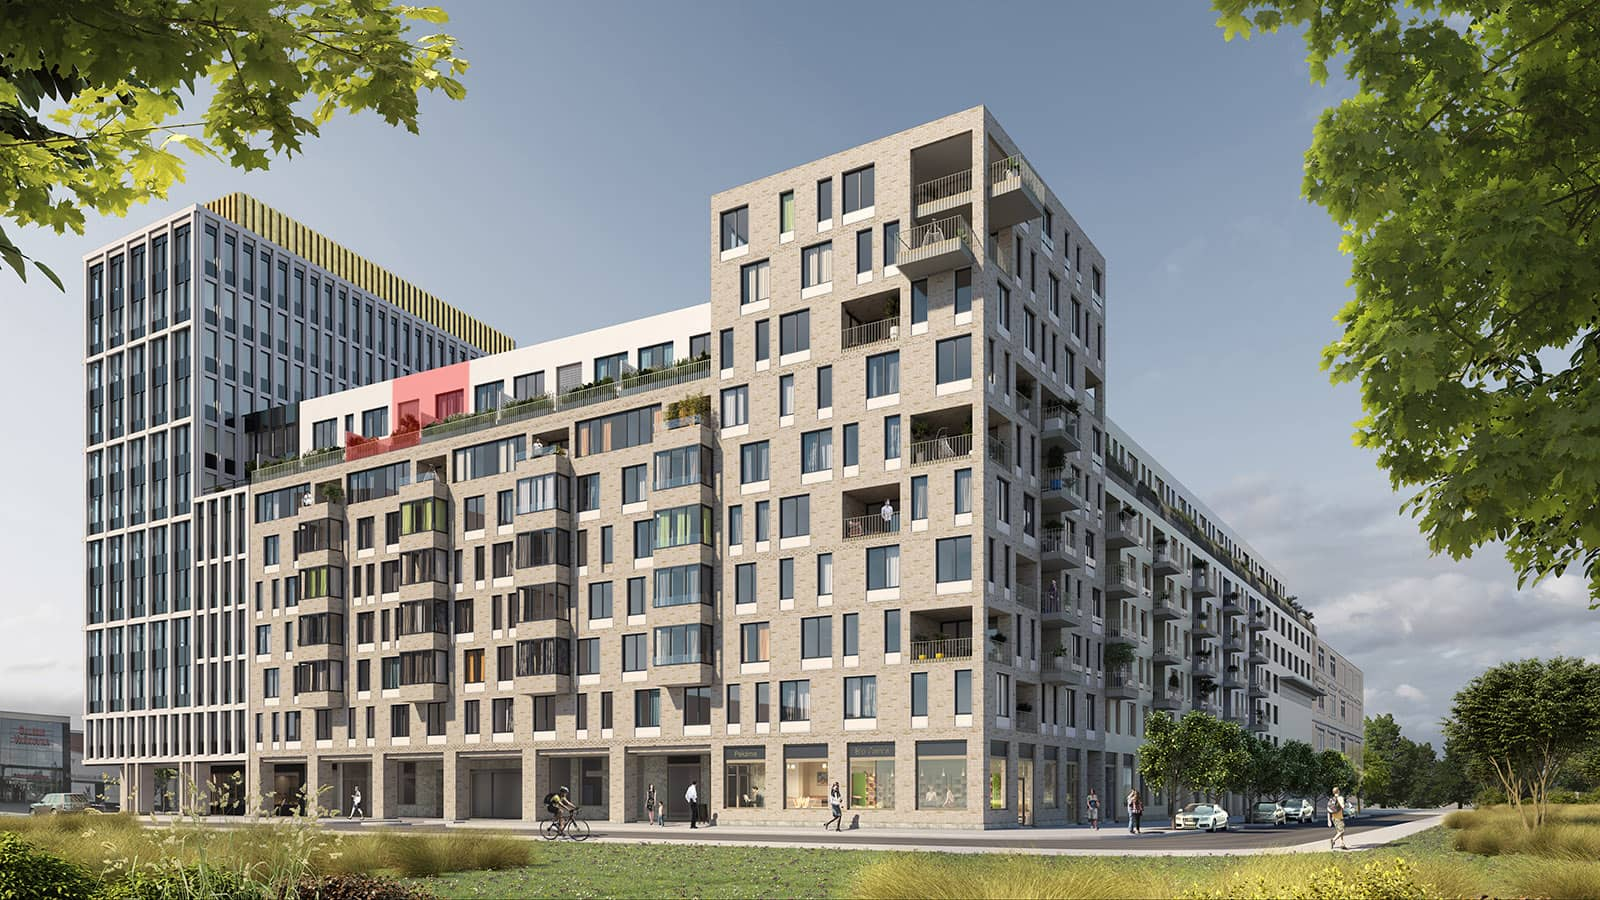
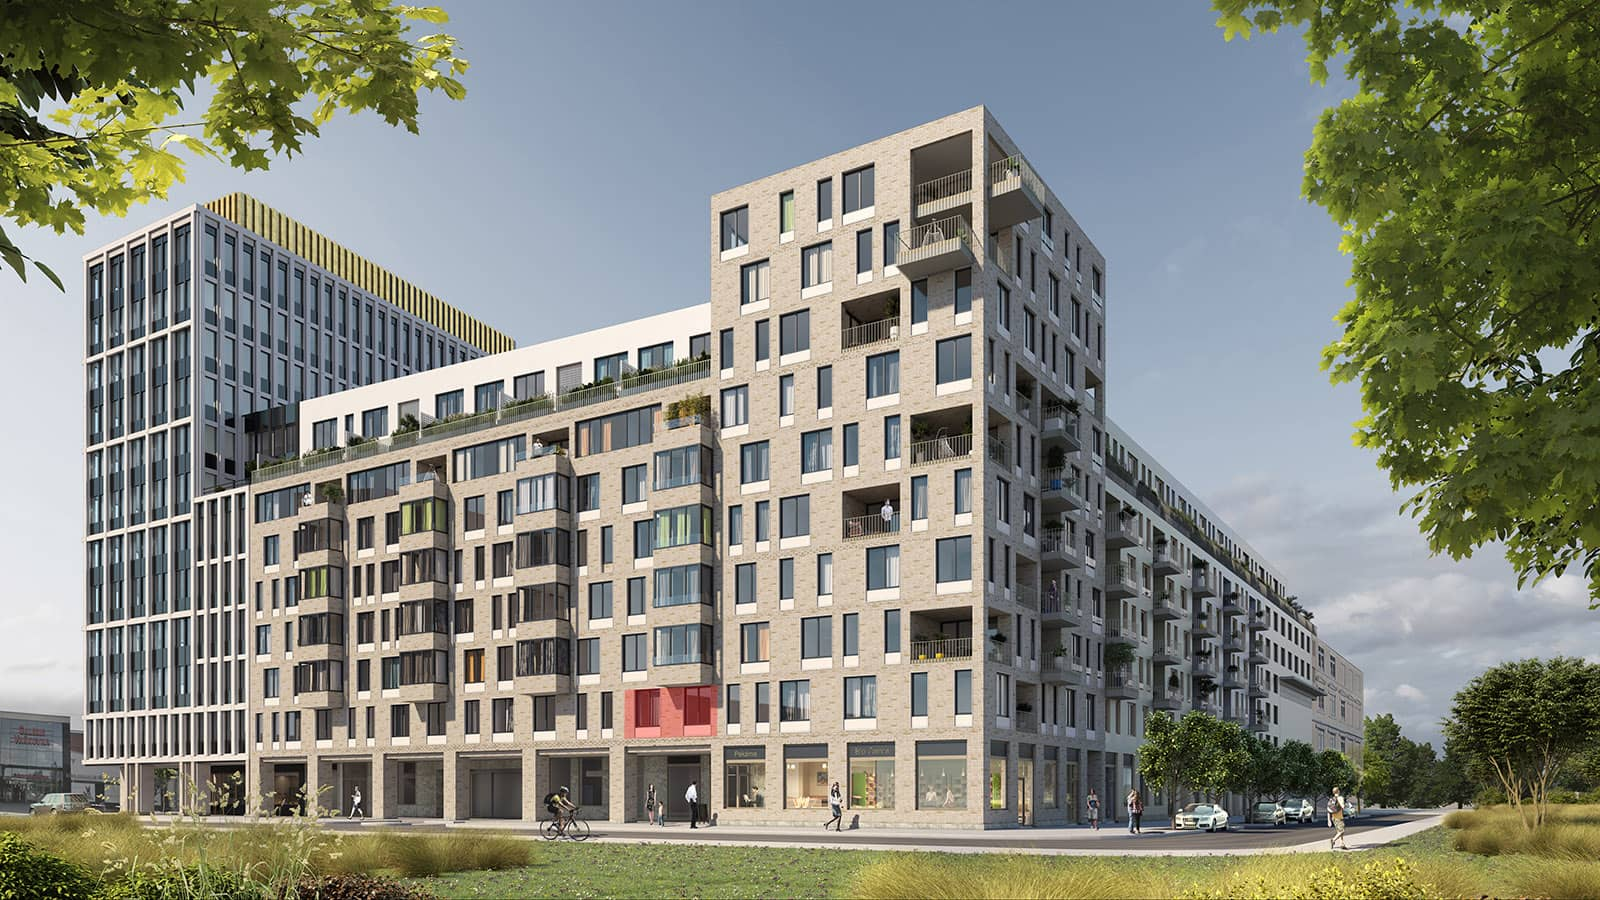
Adding B4/02.05 project

Changed region(s): [[0.375, 0.7467, 0.4688, 0.84], [0.2188, 0.4044, 0.3125, 0.5289]]

diff --git a/src/components/Info/Info.js b/src/components/Info/Info.js
@@ -4,7 +4,7 @@ import './Info.scss';
 const Info = () => {
     return (
         <div className='info' id='info'>
-           <div className='info__header'>PALÁC TRNITÁ - STŘEŠNÍ BYT B6/08.04</div>
+           <div className='info__header'>PALÁC TRNITÁ - BYT S TERASOU B4/02.05</div>
            <div className='info__content'>
                 <img className='info__img info__img-left' alt='main-picutre1' src='/imgs/main1.jpg'/>
                 <div className='info__specs'>
@@ -14,24 +14,22 @@ const Info = () => {
                             <div>Podlaží</div>
                             <div>Užitná plocha</div>
                             <div>Celková plocha</div>
-                            <div>Balkon</div>
                             <div>Terasa</div>
-                            <div>Sklepní koje</div>
+                            <div>Sklepní kóje</div>
                             <div>Garážové stání</div>
-                            <div>Nastěhování</div>
+                            <div>K nastěhování</div>
                         </div>
                         <div className='info__specs-content-right-column' style={{width: '35%'}}>
-                            <div>8.NP a 9.NP</div>
-                            <div>106,6 m²</div>
-                            <div>115,5 m²</div>
-                            <div>20,3 m²</div>
-                            <div>31,4 m²</div>
+                            <div>2.NP</div>
+                            <div>74,5 m²</div>
+                            <div>79,1 m²</div>
+                            <div>27,9 m²</div>
                             <div>Ano</div>
-                            <div>Ano 2x</div>
+                            <div>Ano 1x</div>
                             <div>Podzim 2022</div>
                         </div>
                     </div>
-                    <div className='info__specs-footer'>12 699 000 Kč</div>
+                    <div className='info__specs-footer'>8 299 000 Kč</div>
                 </div>
                 <img className='info__img info__img-right' alt='main-picture2' src='/imgs/main2.jpg'/>
            </div>

diff --git a/src/components/Info/Info.scss b/src/components/Info/Info.scss
@@ -4,7 +4,7 @@
     //overflow-x: hidden;
 
     &__header {
-        font-size: 4rem;
+        font-size: 3.8rem;
         text-align: center;
         font-family: $font-regular;
         padding: 2rem 0 2rem 0;
@@ -28,12 +28,12 @@
         animation: moveDown 0.7s ease-out;
 
         &-header {
-            padding-top: 0.5rem;
+            padding-top: 0.7rem;
         }
 
         &-header, &-footer {
             text-align: center;
-            font-size: 3rem;
+            font-size: 3.35rem;
         }
 
         &-content {
@@ -45,8 +45,8 @@
             }
 
             &-left-column > div, &-right-column > div{
-                margin: 2.15rem 0;
-                font-size: 2rem;
+                margin: 2.3rem 0;
+                font-size: 2.2rem;
                 font-family: $font-regular;
             }
 

diff --git a/public/index.html b/public/index.html
@@ -11,7 +11,7 @@
     />
     <link rel="apple-touch-icon" href="%PUBLIC_URL%/logo192.png" />
     <link rel="manifest" href="%PUBLIC_URL%/manifest.json" />
-    <title>STŘEŠNÍ BYT B6/08.04</title>
+    <title>STŘEŠNÍ BYT B4/02.05</title>
   </head>
   <body>
     <div id="root"></div>
